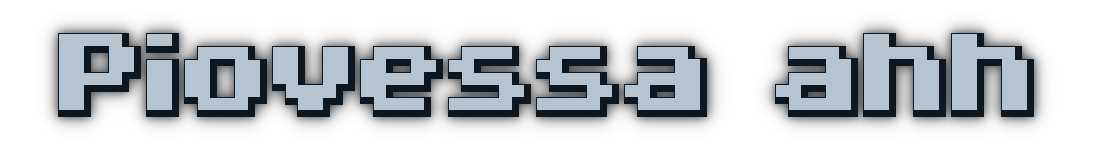
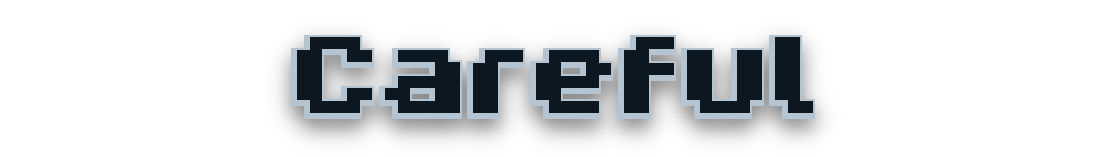
added sounds, changed title

diff --git a/core/src/main/java/it/sleepdeprived/brackeys_2026_1/GameScreen.java b/core/src/main/java/it/sleepdeprived/brackeys_2026_1/GameScreen.java
@@ -3,6 +3,7 @@ package it.sleepdeprived.brackeys_2026_1;
 import com.badlogic.gdx.Gdx;
 import com.badlogic.gdx.Input;
 import com.badlogic.gdx.Screen;
+import com.badlogic.gdx.audio.Sound;
 import com.badlogic.gdx.graphics.GL20;
 import com.badlogic.gdx.graphics.OrthographicCamera;
 import com.badlogic.gdx.graphics.Texture;
@@ -227,6 +228,7 @@ public class GameScreen implements Screen {
         // SHOOT
         if (Gdx.input.isButtonJustPressed(Input.Buttons.LEFT)) {
             shoot();
+            SoundPlayer.play("shoot");
         }
 
         // Update bullets
@@ -480,9 +482,11 @@ public class GameScreen implements Screen {
 
         if (player.getX() < -30) {
             uscito = 0;
+            SoundPlayer.play("notpass");
             game.setScreen(new ExitScreen(game, "Wrong exit! :(", levelNumber, 2000));
         } else if (player.getX() > WindowProperties.WIN_WIDTH) {
             uscito = 1;
+            SoundPlayer.play("pass");
             game.setScreen(new ExitScreen(game, "You passed the level! :)", levelNumber, 2000));
         } else {
             uscito = 2;
@@ -536,6 +540,8 @@ public class GameScreen implements Screen {
                 if(Intersector.intersectRectangles(bulletRect, enemyRect, intersection)){
                     bullets.removeIndex(i);
                     enemies.removeIndex(j);
+
+                    SoundPlayer.play("kill");
                 }
             }
         }
@@ -549,6 +555,7 @@ public class GameScreen implements Screen {
             Rectangle playerRect=player.getHitbox();
 
             if(Intersector.intersectRectangles(enemyRect, playerRect, intersection)){
+                SoundPlayer.play("notpass");
                 game.setScreen(new ExitScreen(game, "u r ded :b", levelNumber, 2000));
             }
         }
@@ -562,6 +569,7 @@ public class GameScreen implements Screen {
             Rectangle playerRect=player.getHitbox();
 
             if(Intersector.intersectRectangles(bulletRect, playerRect, intersection)){
+                SoundPlayer.play("notpass");
                 game.setScreen(new ExitScreen(game, "u just shot yourself :o", levelNumber, 3000));
             }
         }

diff --git a/core/src/main/java/it/sleepdeprived/brackeys_2026_1/SoundPlayer.java b/core/src/main/java/it/sleepdeprived/brackeys_2026_1/SoundPlayer.java
@@ -1,0 +1,36 @@
+package it.sleepdeprived.brackeys_2026_1;
+
+import com.badlogic.gdx.Gdx;
+import com.badlogic.gdx.audio.Sound;
+import com.badlogic.gdx.utils.ObjectMap;
+
+public class SoundPlayer {
+
+    private static final ObjectMap<String, Sound> sounds = new ObjectMap<>();
+
+    private SoundPlayer() {} // prevent instantiation
+
+    // Load all sounds once
+    public static void init() {
+        sounds.put("walk", Gdx.audio.newSound(Gdx.files.internal("sounds/walk.wav")));
+        sounds.put("notpass",  Gdx.audio.newSound(Gdx.files.internal("sounds/notpass.wav")));
+        sounds.put("pass",  Gdx.audio.newSound(Gdx.files.internal("sounds/pass.wav")));
+        sounds.put("select",  Gdx.audio.newSound(Gdx.files.internal("sounds/select.wav")));
+        sounds.put("shoot", Gdx.audio.newSound(Gdx.files.internal("sounds/shoot.wav")));
+        sounds.put("kill",  Gdx.audio.newSound(Gdx.files.internal("sounds/kill.wav")));
+    }
+
+    public static void play(String name) {
+        Sound sound = sounds.get(name);
+        if (sound != null) {
+            sound.play(1f);
+        }
+    }
+
+    public static void dispose() {
+        for (Sound sound : sounds.values()) {
+            sound.dispose();
+        }
+        sounds.clear();
+    }
+}

diff --git a/core/src/main/java/it/sleepdeprived/brackeys_2026_1/LevelSelectorScreen.java b/core/src/main/java/it/sleepdeprived/brackeys_2026_1/LevelSelectorScreen.java
@@ -214,6 +214,7 @@ public class LevelSelectorScreen implements Screen {
                 @Override
                 public void clicked(InputEvent event, float x, float y) {
                     currentLevelNumber--;
+                    SoundPlayer.play("select");
                     reloadUI();
                 }
             });
@@ -238,6 +239,7 @@ public class LevelSelectorScreen implements Screen {
                 @Override
                 public void clicked(InputEvent event, float x, float y) {
                     currentLevelNumber++;
+                    SoundPlayer.play("select");
                     reloadUI();
                 }
             });
@@ -260,6 +262,7 @@ public class LevelSelectorScreen implements Screen {
         startBtn.addListener(new ClickListener() {
             @Override
             public void clicked(InputEvent event, float x, float y) {
+                SoundPlayer.play("select");
                 game.setScreen(new GameScreen(game, currentLevelNumber));
             }
         });

diff --git a/core/src/main/java/it/sleepdeprived/brackeys_2026_1/Main.java b/core/src/main/java/it/sleepdeprived/brackeys_2026_1/Main.java
@@ -28,6 +28,7 @@ Ho inserito tra i file assets/ui/
 // dimensioni schermo : WindowProperties.WIN_WIDTH WindowProperties.WIN_HEIGHT
 
 import com.badlogic.gdx.Game;
+import com.badlogic.gdx.audio.Sound;
 import com.badlogic.gdx.graphics.g2d.SpriteBatch;
 
 public class Main extends Game {
@@ -38,7 +39,10 @@ public class Main extends Game {
     public void create() {
         batch = new SpriteBatch();
         font = new Font();
+        SoundPlayer.init();
+
         setScreen(new MenuScreen(this));
+
     }
 
     @Override
@@ -50,6 +54,8 @@ public class Main extends Game {
     public void dispose() {
         batch.dispose();
         font.dispose();
+
+        SoundPlayer.dispose();
     }
 
     public SpriteBatch getBatch() {

diff --git a/core/src/main/java/it/sleepdeprived/brackeys_2026_1/Player.java b/core/src/main/java/it/sleepdeprived/brackeys_2026_1/Player.java
@@ -32,6 +32,8 @@ public class Player extends Entity {
     private Rectangle bigHitbox;
     private static final float BIG_HITBOX_SCALE = 3f;
 
+
+
     public Player(float x, float y, float width, float height, Sprite stillSprite, Array<Sprite> animationFrames, Sprite eye, float eyeBaseOffsetX, float eyeBaseOffsetY, float frameDuration, Sprite shotgunSprite) {
         super(x, y, width, height, animationFrames);
 

diff --git a/core/src/main/java/it/sleepdeprived/brackeys_2026_1/Font.java b/core/src/main/java/it/sleepdeprived/brackeys_2026_1/Font.java
@@ -23,7 +23,7 @@ public class Font {
         buttonFont = generator.generateFont(buttonParams);
 
         FreeTypeFontParameter creditParams = new FreeTypeFontParameter();
-        creditParams.size = 24;
+        creditParams.size = 32;
         creditParams.color = DARK_BLUE;
         creditFont = generator.generateFont(creditParams);
 

diff --git a/core/src/main/java/it/sleepdeprived/brackeys_2026_1/MenuScreen.java b/core/src/main/java/it/sleepdeprived/brackeys_2026_1/MenuScreen.java
@@ -66,6 +66,7 @@ public class MenuScreen implements Screen {
             @Override
             public void clicked(InputEvent event, float x, float y) {
                 System.out.println("ciao");
+                SoundPlayer.play("select");
                 game.setScreen(new LevelSelectorScreen(game, 1));
             }
         });
